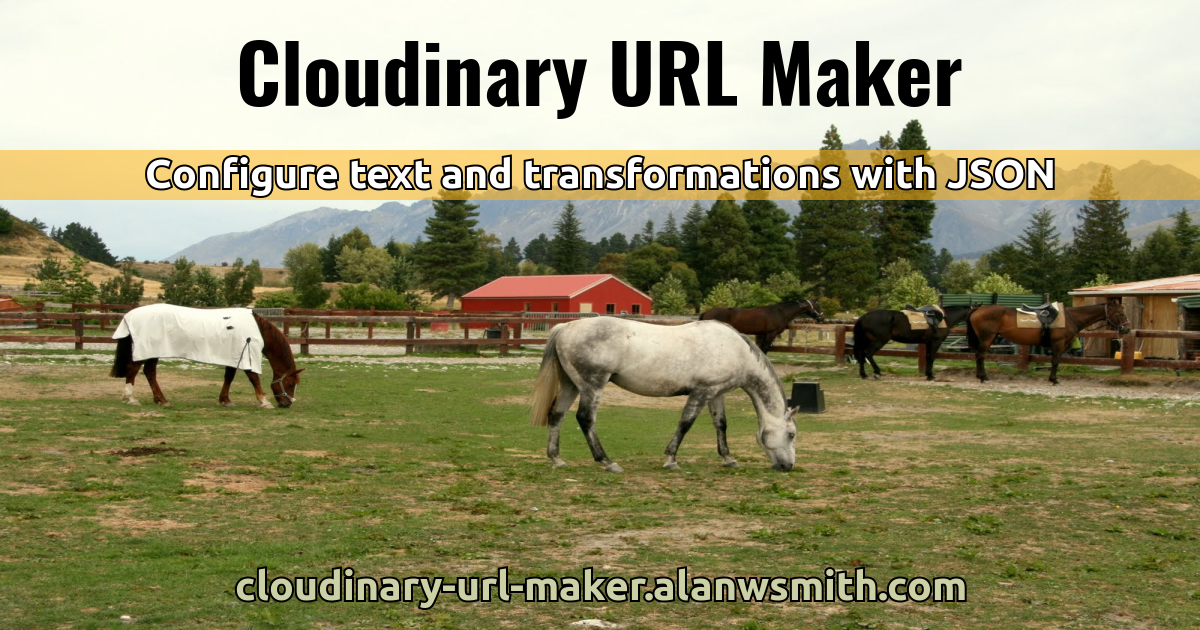
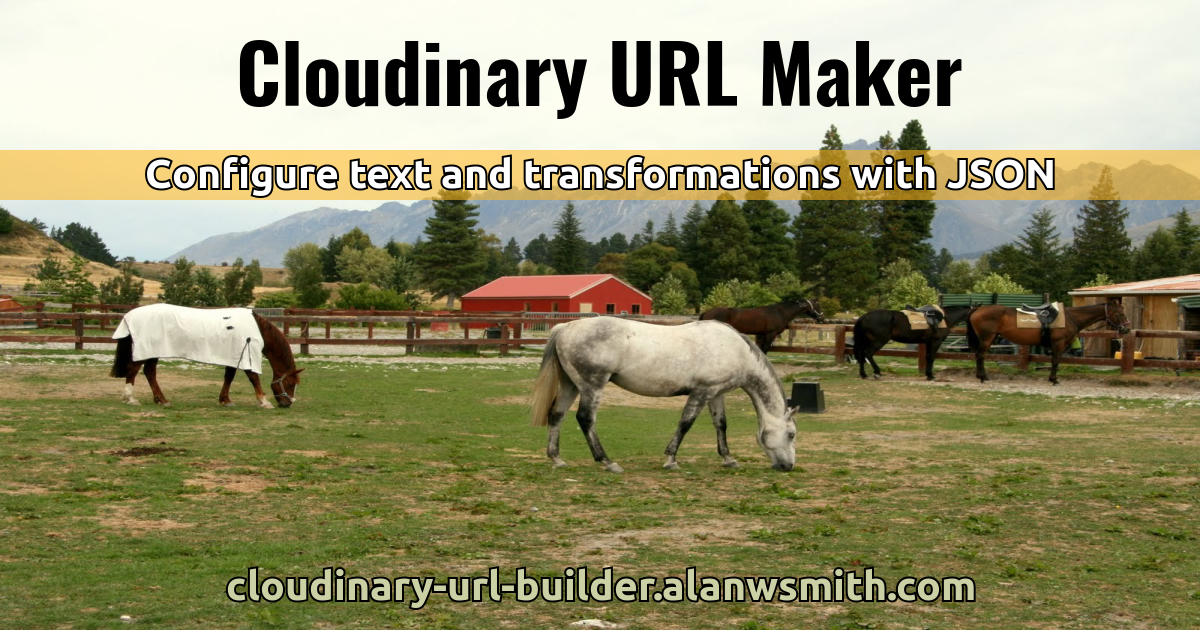
Renamed from cloudinary-url-maker to cloudinary-url-builder

Changed region(s): [[0.185, 0.8746, 0.8325, 0.9651]]

diff --git a/site/index.html b/site/index.html
@@ -21,11 +21,11 @@
     <meta property="og:type" content="website" />
     <meta
       property="og:url"
-      content="https://cloudinary-url-maker.alanwsmith.com/"
+      content="https://cloudinary-url-builder.alanwsmith.com/"
     />
     <meta
       property="og:image"
-      content="https://cloudinary-url-maker.alanwsmith.com/og-images/main.png"
+      content="https://cloudinary-url-builder.alanwsmith.com/og-images/main.png"
     />
 
     <meta name="twitter:card" content="summary_large_image" />
@@ -36,7 +36,7 @@
     />
     <meta
       name="twitter:image"
-      content="https://cloudinary-url-maker.alanwsmith.com/og-images/main.png"
+      content="https://cloudinary-url-builder.alanwsmith.com/og-images/main.png"
     />
     <link
       rel="icon"
@@ -247,7 +247,7 @@
       {"h_50": [] },
       {"co_rgb": ["ccd1a5"] },
       {"bo_4px_solid_black": [] },
-      {"l_text": ["Ubuntu_42_bold_stroke_alignmentvalue_center", "cloudinary-url-maker.alanwsmith.com" ] }
+      {"l_text": ["Ubuntu_42_bold_stroke_alignmentvalue_center", "cloudinary-url-builder.alanwsmith.com" ] }
     ],
     [
       { "fl_layer_apply": [] },
